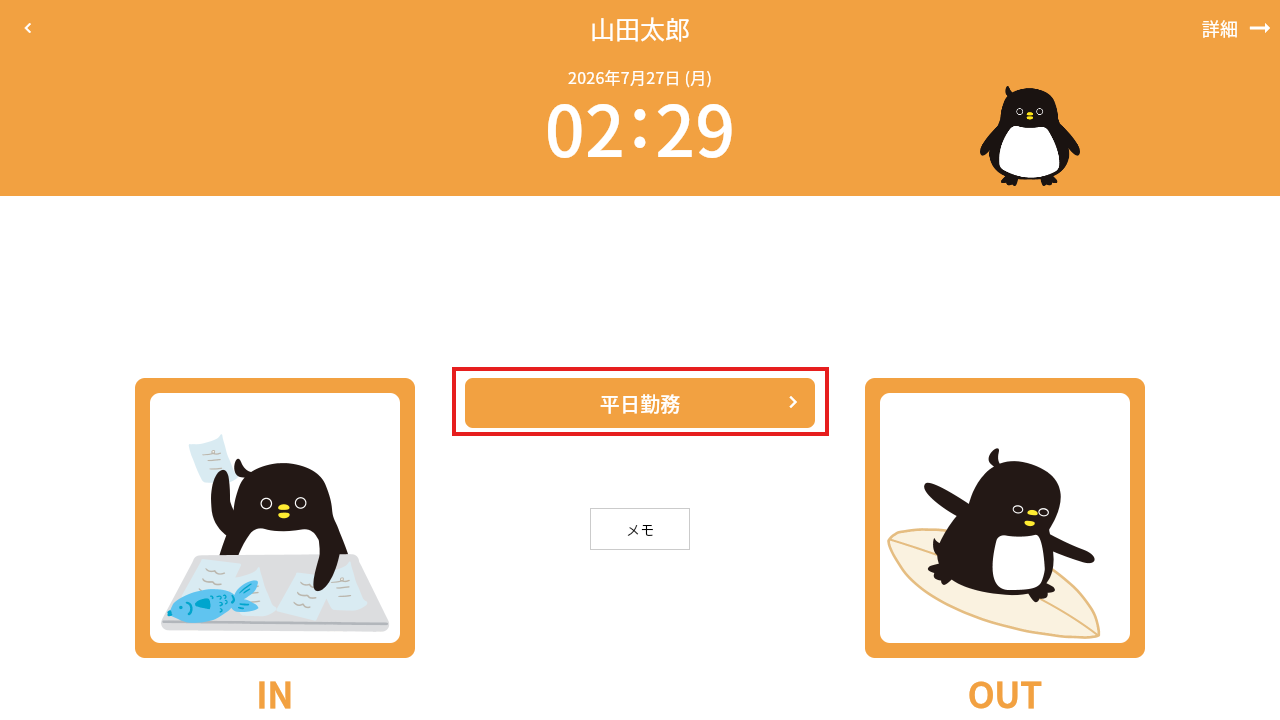
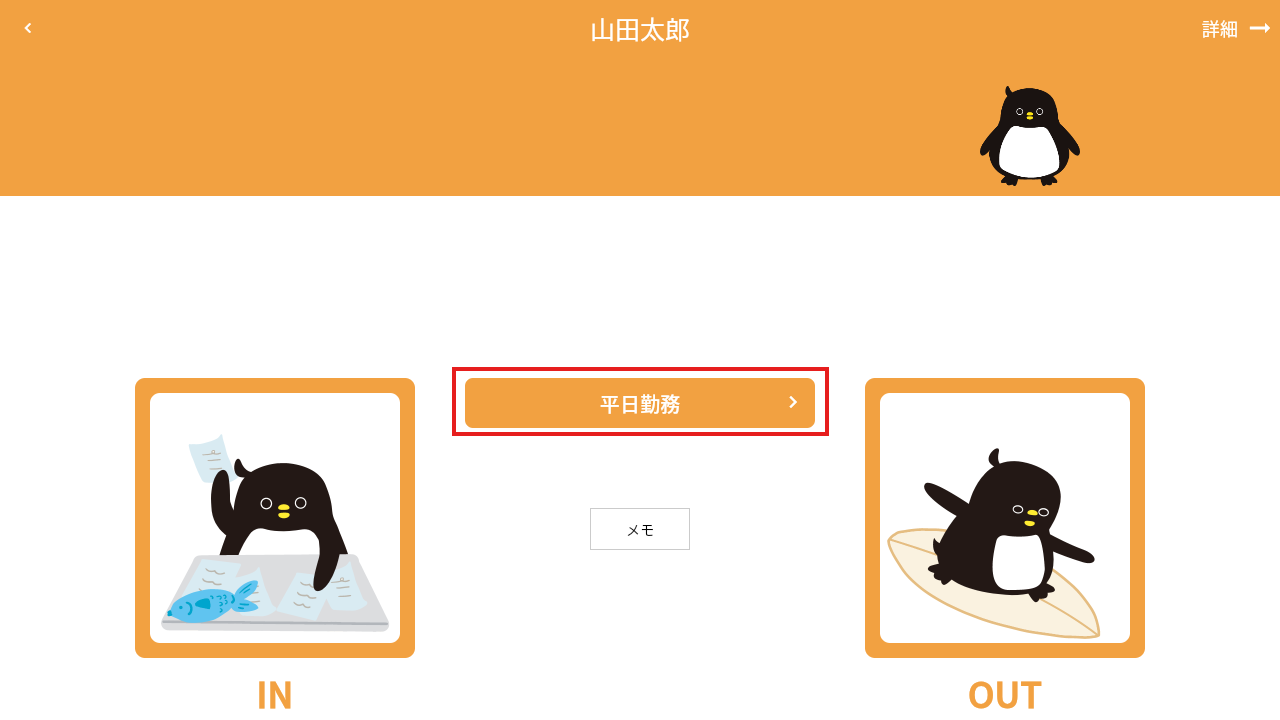
スクリーンショットの日時をマスクし、イレギュラー例の説明を修正
- punch-pattern-selected.png の日付・時刻表示をヘッダーと同じオレンジで
  マスクし、非現実的な時刻や作成日が判別できないようにした
- イレギュラーケースの説明例を「基本は平日勤務だが、ある週だけ午前勤務」の
  向きに修正（元の説明が逆だったため）

Changed region(s): [[0.4062, 0.0917, 0.5938, 0.2444]]

diff --git a/src/content/manual/category-patterns.md b/src/content/manual/category-patterns.md
@@ -34,7 +34,7 @@ order: 1
 「勤務パターン」とは、出勤時刻・退勤時刻・休憩開始時刻・休憩終了時刻をひとまとめにしたセットです。曜日ごとに出勤・退勤の時刻を直接入力する方法も考えられますが、ペンギンタイムカードではあえて「勤務パターン」というマスターを別に登録し、それをカテゴリーの曜日ごとに割り当てる仕組みになっています。理由は主に2つです。
 
 1. **入力の手間を減らすため**：月〜金がまったく同じ時間帯であれば、曜日ごとに5回入力する必要はなく、1つの勤務パターンを作って割り当てるだけで済みます。
-2. **曜日ごとの働き方を柔軟に切り替えられるようにするため**：たとえば「火曜日は基本的に午前勤務だが、今週はフルタイムで出勤する」というようなイレギュラーな場合でも、あらかじめ登録しておいた勤務パターン（この例では「平日勤務」）を選び直すだけで対応できます。標準勤務時間を勤務パターンとして登録しておくことで、その勤務パターンを基準に残業時間の計算も行われます。
+2. **曜日ごとの働き方を柔軟に切り替えられるようにするため**：たとえば「火曜日は基本的に平日勤務だが、ある週だけは午前勤務にする」というようなイレギュラーな場合でも、あらかじめ登録しておいた勤務パターン（この例では「午前勤務」）を選び直すだけで対応できます。標準勤務時間を勤務パターンとして登録しておくことで、その勤務パターンを基準に残業時間の計算も行われます。
 
 つまり勤務パターンは、単なる時刻の記録ではなく、「その日の標準的な働き方」を表すテンプレートです。次の「カテゴリーを新規作成する」で、この勤務パターンを曜日に割り当てる手順を説明します。
 
@@ -66,7 +66,7 @@ order: 1
 
 ![manual-image](/assets/manual/2026/07/punch-pattern-selected.png)
 
-とはいえ、実際の勤務は曜日どおりとは限りません。たとえば「火曜日は基本的に午前勤務」というカテゴリーでも、ある週だけは1日フルタイムで働く、といったイレギュラーなケースもあるでしょう。その場合は、この勤務パターンの表示部分をタップすると、登録済みの勤務パターンの一覧が表示され、その日だけ手動で勤務パターンを変更できます。
+とはいえ、実際の勤務は曜日どおりとは限りません。たとえば「火曜日は基本的に平日勤務」というカテゴリーでも、ある週だけは午前だけ働く、といったイレギュラーなケースもあるでしょう。その場合は、この勤務パターンの表示部分をタップすると、登録済みの勤務パターンの一覧が表示され、その日だけ手動で勤務パターンを変更できます。
 
 ![manual-image](/assets/manual/2026/07/punch-pattern-picker.png)
 
